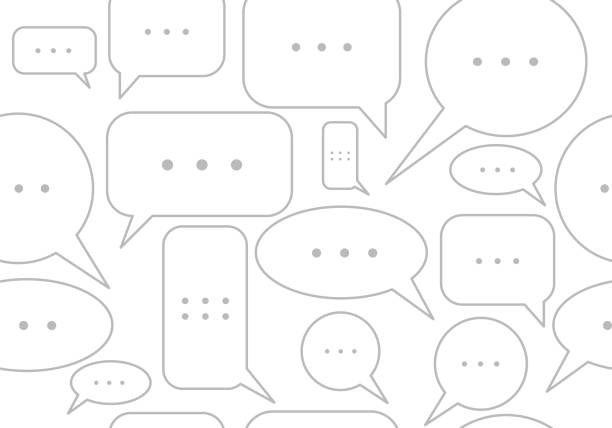
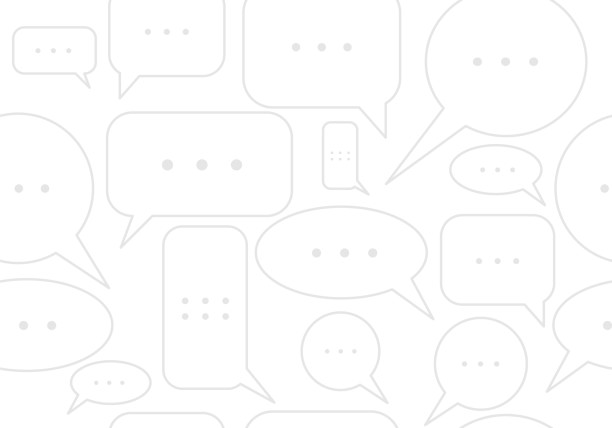
minor changes + fixes

diff --git a/client/src/components.js b/client/src/components.js
@@ -25,7 +25,7 @@ function Nav(props) {
         <NavHeading name='getBlogs'/>
         <NavButton link='/' name='Home'/>
         {/* <NavButton link='/' name='Explore'/> */}
-        <NavButton link='https://www.github.com/Jagjit0306' name='Help'/>
+        <NavButton link='https://www.github.com/Jagjit0306/getBlogs' name='Help'/>
         <MainButton link='/new' name="New"/>
       </div>
     )
@@ -56,7 +56,7 @@ function NavMobMenu() {
         <div className='NavMobMenu'>
             <NavButton link='/' name='Home'/>
             {/* <NavButton link='/' name='Explore'/> */}
-            <NavButton link='https://www.github.com/Jagjit0306' name='Help'/>
+            <NavButton link='https://www.github.com/Jagjit0306/getBlogs' name='Help'/>
             <MainButton link='/new' name="New"/>
         </div>
     )

diff --git a/client/src/Blogs.js b/client/src/Blogs.js
@@ -16,7 +16,7 @@ function Blog(props) {
           {(props.b.Name)?'by':''} {props.b.Name}
         </div>
         <div className='BlogContent'>
-          {contentPreview}
+          {contentPreview}{(props.b.Name)?'........':''}
         </div>
         {/* <Link to={'/blog?id='+props.b._id}>
           Read More...

diff --git a/client/src/App.css b/client/src/App.css
@@ -152,7 +152,7 @@
   /* margin-top: 20px;
   margin-bottom: 20px; */
   padding: 20px;
-  background-image: url('/public/txt-bg.png');
+  /* background-image: url('/public/txt-bg.png'); */
   background-size:cover;
   background-repeat: no-repeat;
 }
